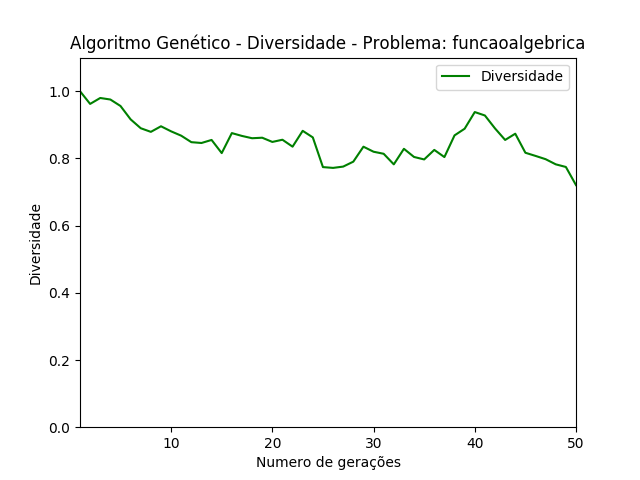
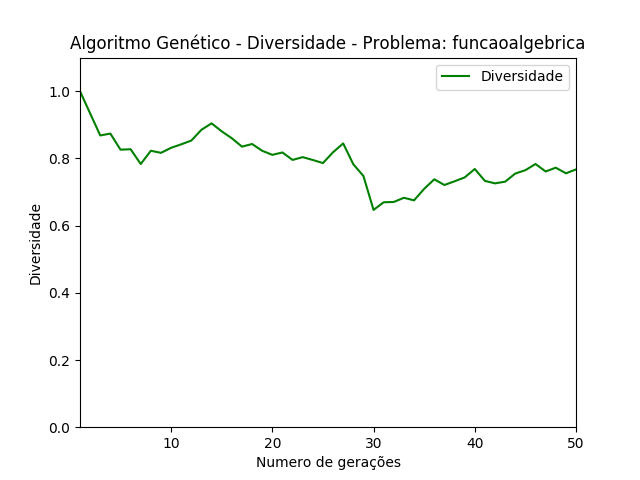
roulette fixed

diff --git a/GA/genetic_algorith.py b/GA/genetic_algorith.py
@@ -77,7 +77,7 @@ def fitness_calc():
                 if population[i][j] != population[i][j+1]:
                     aux += 1
             l.append(aux)
-    if typePopulation == 2 or typePopulation == 4:
+    if typePopulation == 2:
         for i in range(nPopulation):
             aux = 0
             for j in range(chromoPopulation-1):
@@ -93,6 +93,23 @@ def fitness_calc():
                 secondSum += cos(2.0*pi*c)
             aux = -20.0*exp(-0.2*sqrt(firstSum/chromoPopulation)) - exp(secondSum/chromoPopulation) + 20 + e
             aux = fitness_standard_ackley(aux)
+            l.append(aux)
+    if typePopulation == 4:
+        aux = 0
+        for i in range(nPopulation):
+            for j in range(len(population[i])):
+                if j == len(population[i]) - 1:
+                    c1 = population[i][j]
+                    c2 = population[i][0]
+                    l1 = traveling[c1]
+                    l2 = traveling[c2]
+                    aux += sqrt(pow(l1[0] - l2[0],2) + pow(l1[1] - l2[1],2))
+                else:
+                    c1 = population[i][j]
+                    c2 = population[i][j+1]
+                    l1 = traveling[c1]
+                    l2 = traveling[c2]
+                    aux += sqrt(pow(l1[0] - l2[0],2) + pow(l1[1] - l2[1],2))
             l.append(aux)
     if typePopulation == 5:
         # fitness da funcao algebrica para maximizar o valor
@@ -168,12 +185,12 @@ def bin_to_real(individual,lowerBit,upperBit):
 
 def selection(fitness,g,tour):
     newPopulation = []
-    # '''ROULETTE'''
-    # newPopulation = roulette(newPopulation,fitness)
-    '''TOURNAMENT'''
-    if(g == 0):
-        tour = int(input("Escolha o tamanho do torneio:\n"))
-    newPopulation = tournament(newPopulation,fitness,tour)
+    '''ROULETTE'''
+    newPopulation = roulette(newPopulation,fitness)
+    # '''TOURNAMENT'''
+    # if(g == 0):
+    #     tour = int(input("Escolha o tamanho do torneio:\n"))
+    # newPopulation = tournament(newPopulation,fitness,tour)
     return newPopulation
 
 def roulette(newPopulation,fitness):
@@ -193,11 +210,11 @@ def roulette(newPopulation,fitness):
                 if i == skip:
                     fitnessProb.append(0)
                 else:
-                    fitnessProb.append(i/fitnessSum)
+                    fitnessProb.append(val/fitnessSum)
             else:
-                fitnessProb.append(i/fitnessSum)
+                fitnessProb.append(val/fitnessSum)
         l = numpy.cumsum(fitnessProb)
-        tip = uniform(0,l[len(l)-1])
+        tip = uniform(0,1)
         for i,val in enumerate(l):
             if tip <= val:
                 skip = i
@@ -425,8 +442,12 @@ def elitism_find(f,p):
     return best
 
 def elitism_act(p,best):
+    # print("##########################################################")
+    # print(p)
     p.pop(0)
     p.insert(0,best)
+    # print(p)
+    # print("##########################################################")
     return p
 
 def plotDiversity(problem,diversity):
@@ -458,7 +479,7 @@ def plotConvergence(problem,fitnessListAverage,fitnessListBest):
     plt.plot(range(1, len(fitnessListAverage)+1), fitnessListAverage)
     plt.plot(range(1, len(fitnessListBest)+1), fitnessListBest)
 
-    plt.legend(['Média dos fitness', 'Melhor fitness'], loc='upper right')
+    plt.legend(['Média dos fitness', 'Melhor fitness'], loc='upper left')
 
     plt.savefig("graphs/fitness/"+problem+".png")
     plt.close()
@@ -513,7 +534,8 @@ generationsPopulation = int(generationsPopulation)
 
 # VARIABLES
 population = []
-# population = [[5,5,5,5,5],[5,5,5,5,5],[5,5,5,5,5],[5,5,5,5,5],[5,5,5,5,5],]
+# population = [[5,5,5,5,5],[5,5,5,5,5],[5,5,5,5,5],[5,5,5,5,5],[5,5,5,5,5]]
+traveling = [[0,0.2],[0.15, 0.80],[0.20, 0.65],[0.90, 0.30],[0.75, 0.45],[0.30, 0.75],[0.05, 0.05],[0.95, 0.95],[0.55, 0.55],[0.85, 0.25]]
 diversityList = []
 fitnessList = []
 binPopulation = 0
